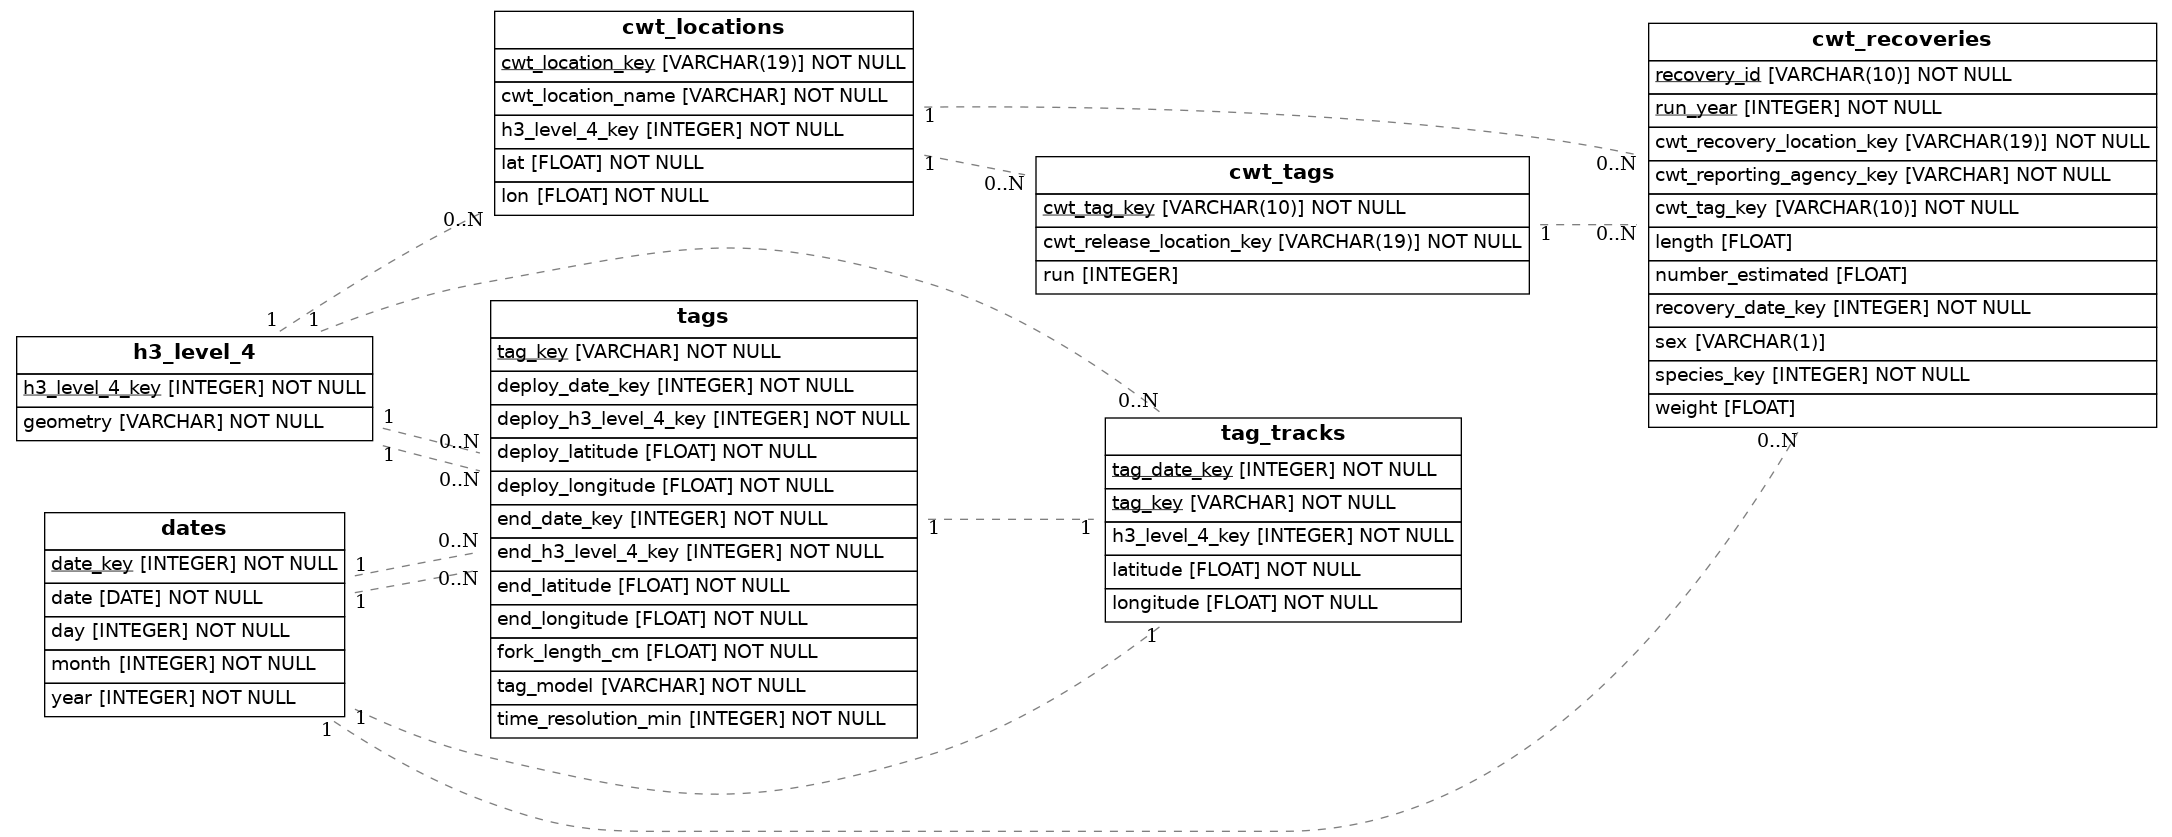
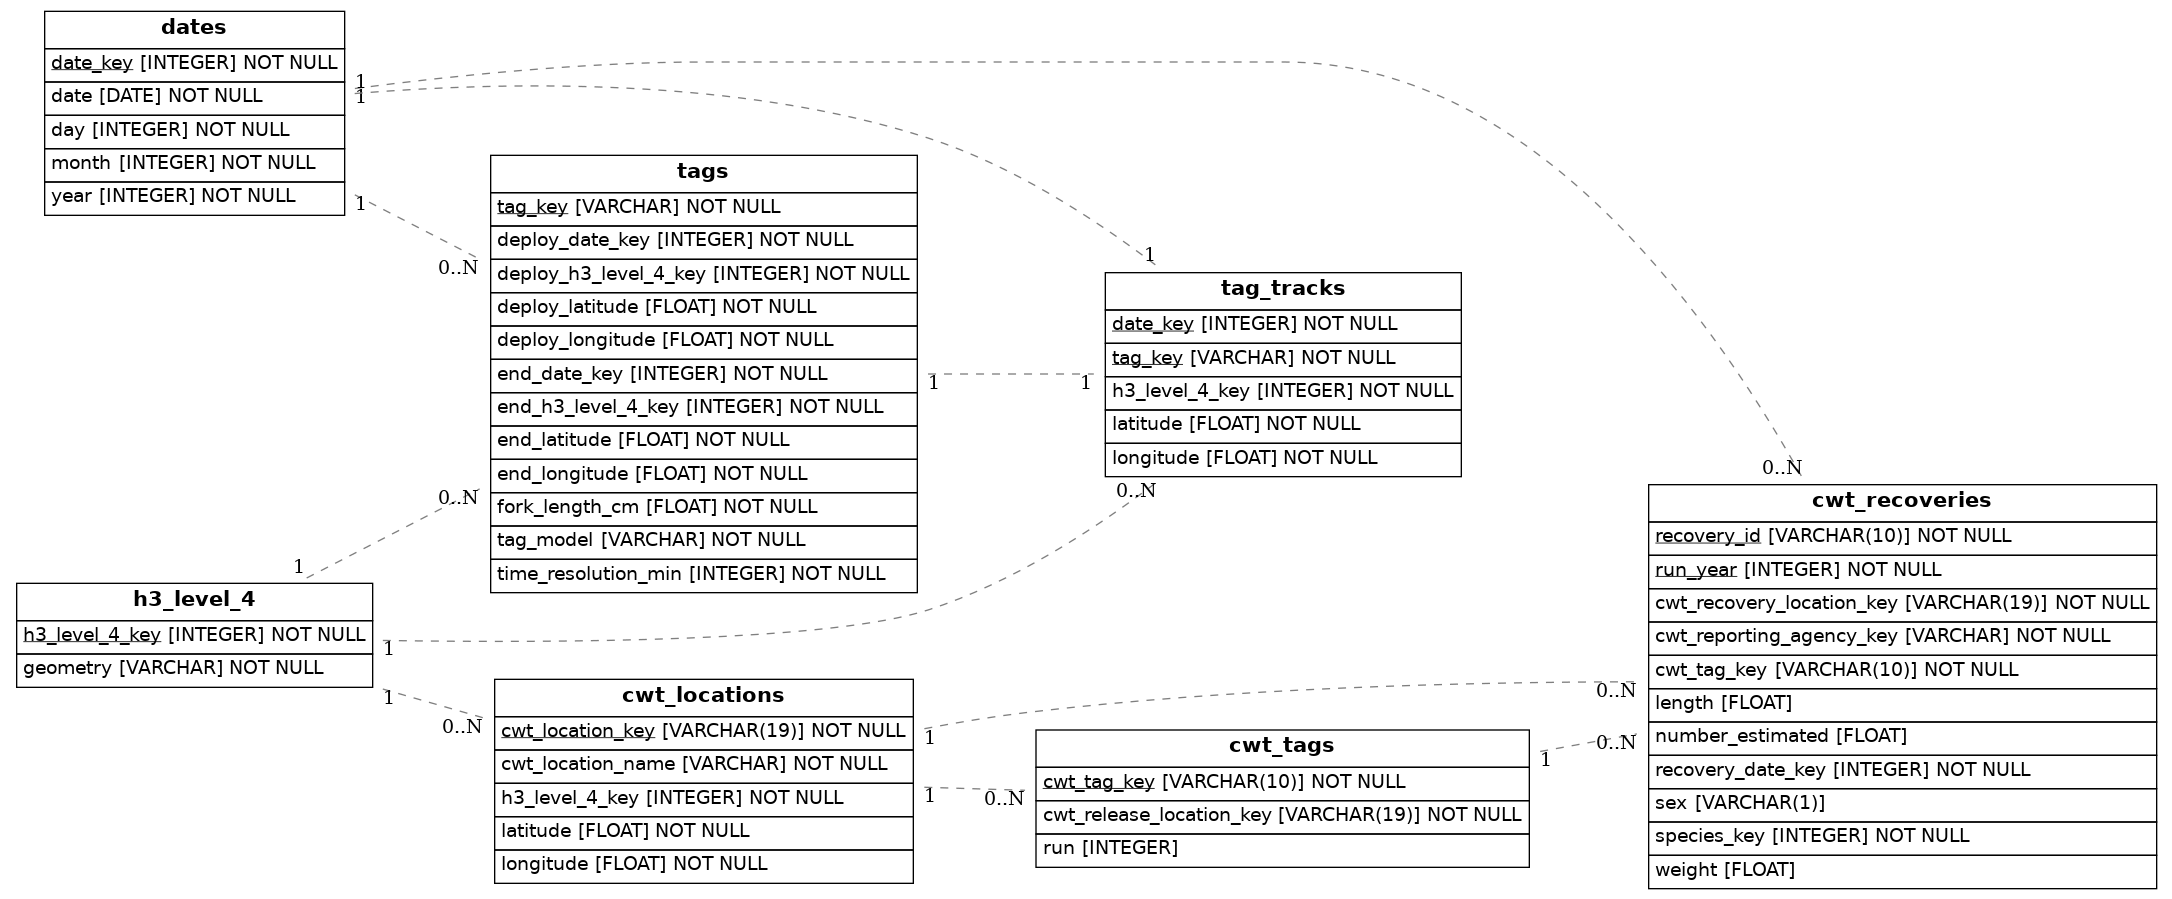
tag tracks

diff --git a/mirrorverse/warehouse/models/dimensions.py b/mirrorverse/warehouse/models/dimensions.py
@@ -86,8 +86,6 @@ class Tags(ModelBase):
     )
     end_latitude: Mapped[float]
     end_longitude: Mapped[float]
-    end_h3_level_4_key: Mapped[int] = mapped_column(
-        ForeignKey("h3_level_4.h3_level_4_key")
-    )
+    end_h3_level_4_key: Mapped[int]
     deploy_date_key: Mapped[int] = mapped_column(ForeignKey("dates.date_key"))
-    end_date_key: Mapped[int] = mapped_column(ForeignKey("dates.date_key"))
+    end_date_key: Mapped[int]
